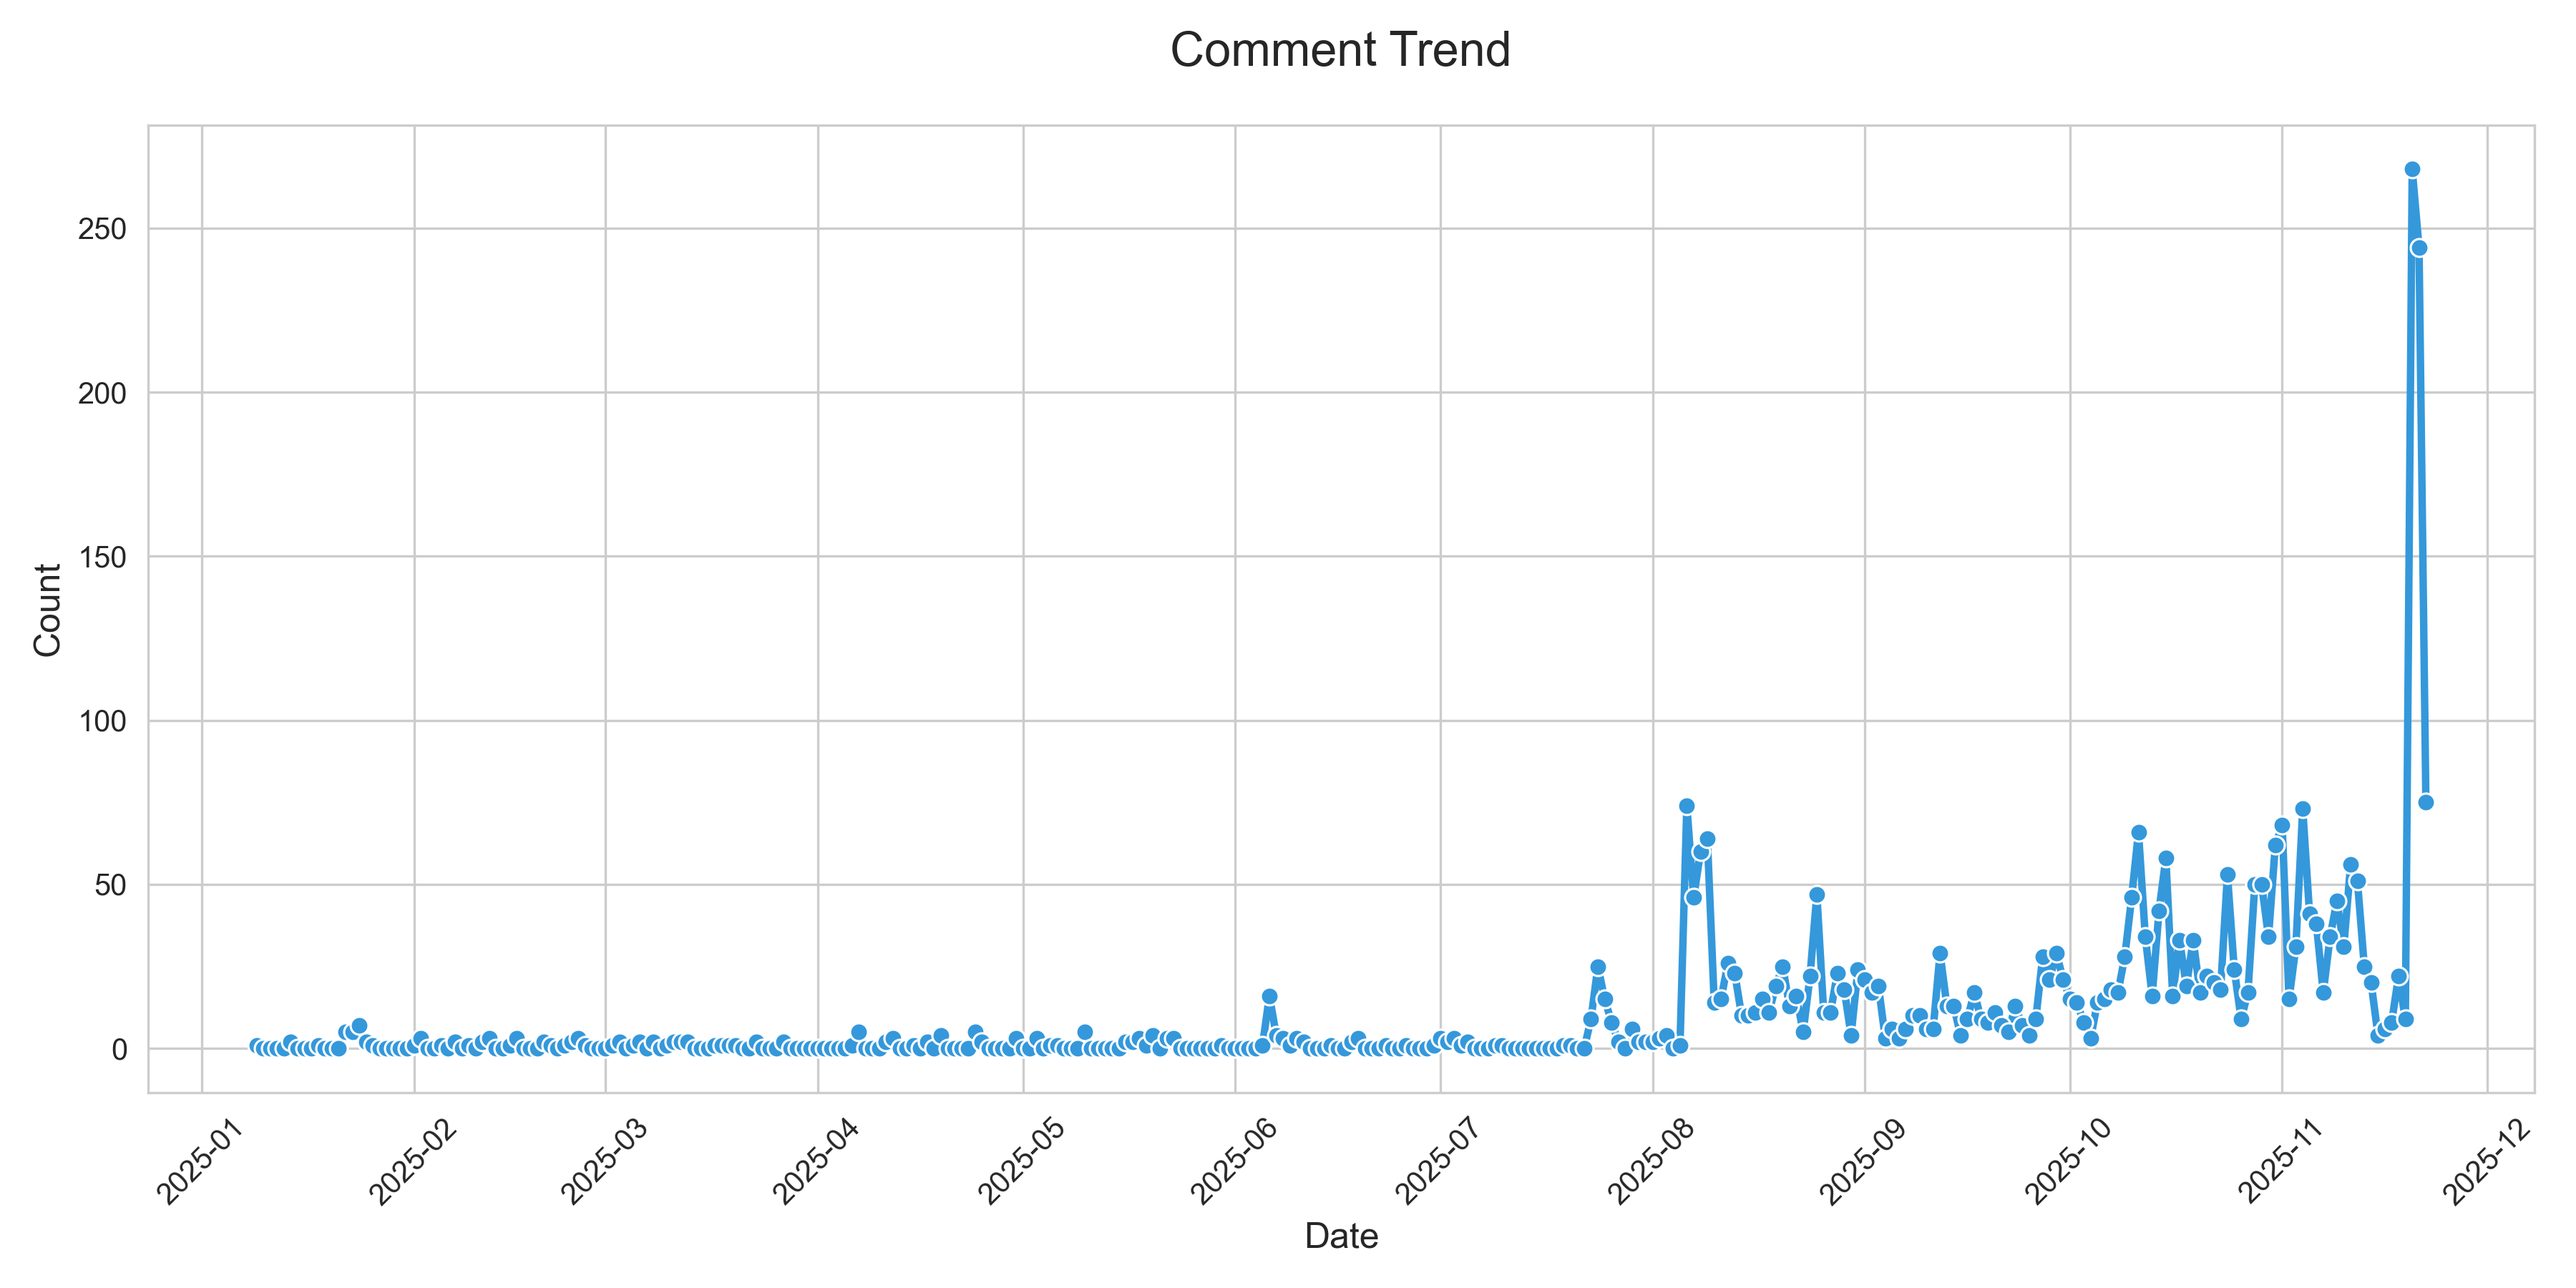
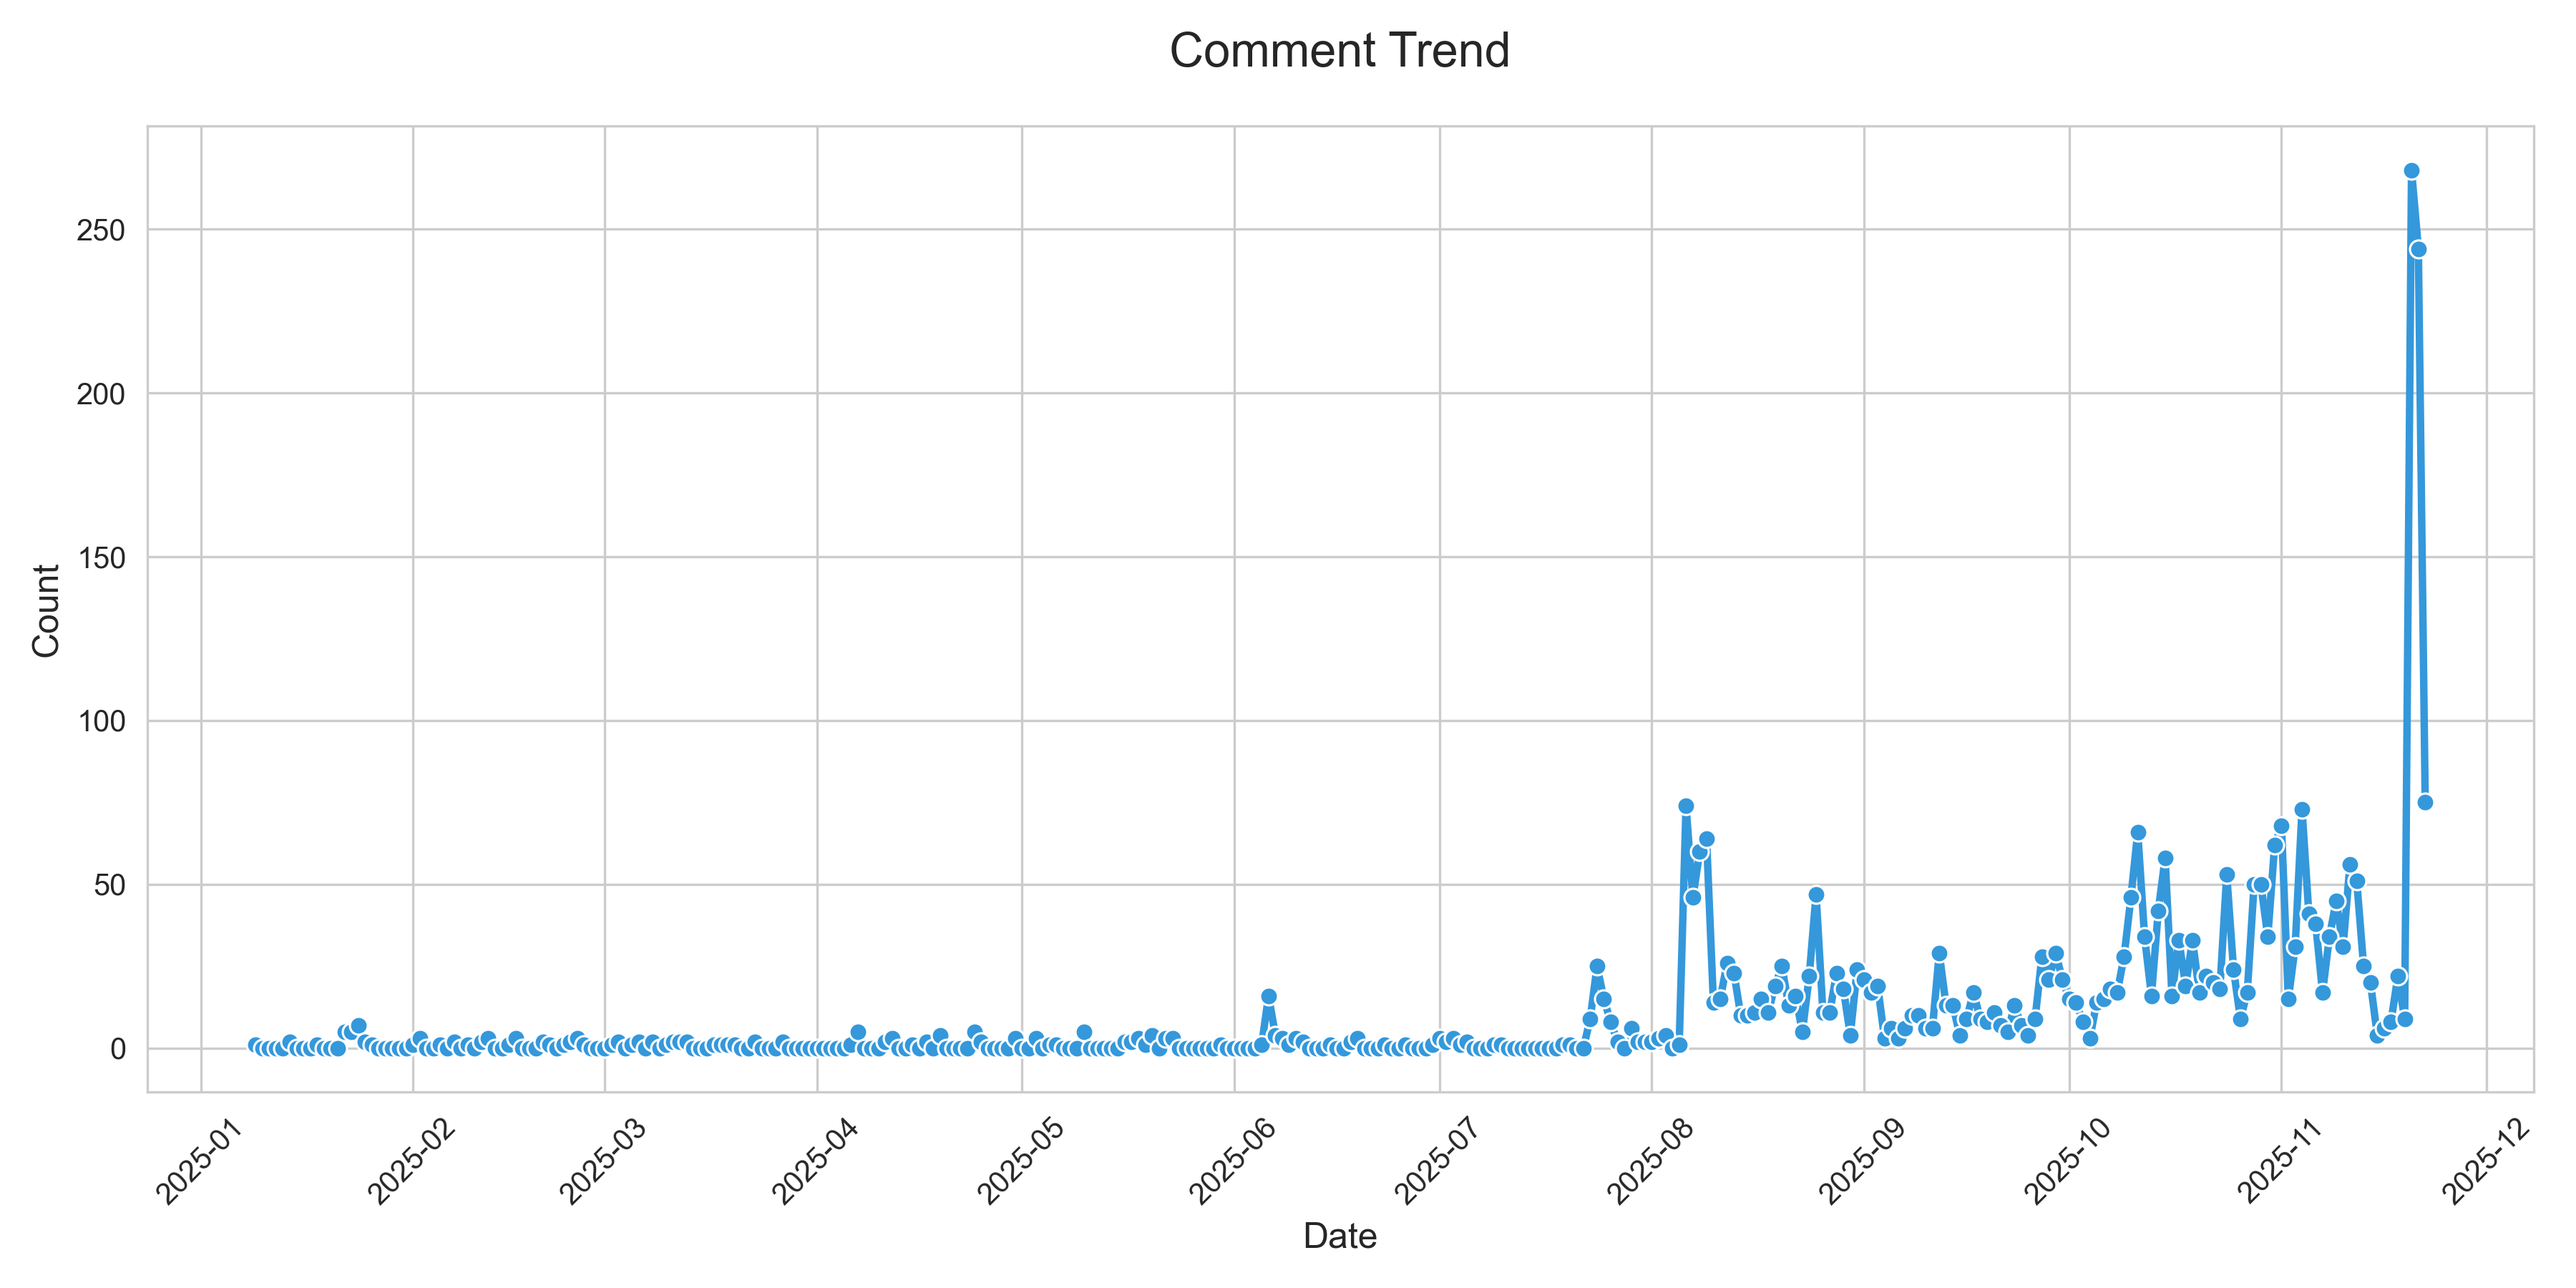
Final Delivery: Integrated 3 charts (Trend, Location, WordCloud), deepened metric card gray, and fixed JSON conflicts

diff --git a/sample_app.py b/sample_app.py
@@ -19,98 +19,48 @@ st.set_page_config(
     initial_sidebar_state="expanded"
 )
 
-# --- 2. 深度 UI 定制 (针对灰色调进行加重) ---
+# --- 2. 样式美化 ---
 st.markdown("""
 <style>
-    /* 解决左边栏间距问题 */
     [data-testid="stSidebarNav"] { padding-top: 0rem; }
     .sidebar-title { margin-top: -30px; font-weight: bold; color: #1f3a93; font-size: 1.2rem; }
-
-    /* 页面大标题居中放大 */
-    .main-title {
-        text-align: center;
-        font-size: 3.5rem;
-        font-weight: 800;
-        color: #1E293B;
-        margin-bottom: 0rem;
-        padding-top: 1rem;
-    }
-    .sub-title {
-        text-align: center;
-        color: #475569; /* 加深副标题灰色 */
-        font-size: 1.2rem;
-        margin-bottom: 2rem;
-    }
-
-    /* 指标卡片美化：加重背景与边框的灰色 */
-    [data-testid="stMetric"] {
-        background-color: #f1f5f9; /* 加深背景：从 #f8fafc 改为 #f1f5f9 */
-        border: 1px solid #cbd5e1; /* 加深边框：从 #e2e8f0 改为 #cbd5e1 */
-        padding: 15px 20px;
-        border-radius: 12px;
-        box-shadow: 0 2px 4px rgba(0,0,0,0.05);
-    }
-
-    /* 指标数值加粗与间距压缩 */
-    [data-testid="stMetricValue"] {
-        font-weight: 800 !important;
-        font-size: 2.2rem !important;
-        line-height: 1.1 !important;
-        color: #0f172a !important;
-    }
-    
-    /* 加深指标标签颜色 */
-    [data-testid="stMetricLabel"] {
-        margin-bottom: -15px !important;
-        font-size: 1rem !important;
-        color: #475569 !important; /* 加深文字：从 #64748b 改为 #475569 */
-    }
+    .main-title { text-align: center; font-size: 3.5rem; font-weight: 800; color: #1E293B; margin-bottom: 0rem; padding-top: 1rem; }
+    .sub-title { text-align: center; color: #475569; font-size: 1.2rem; margin-bottom: 2rem; }
+    [data-testid="stMetric"] { background-color: #f1f5f9; border: 1px solid #cbd5e1; padding: 15px 20px; border-radius: 12px; }
+    [data-testid="stMetricValue"] { font-weight: 800 !important; font-size: 2.2rem !important; line-height: 1.1 !important; color: #0f172a !important; }
+    [data-testid="stMetricLabel"] { margin-bottom: -15px !important; font-size: 1rem !important; color: #475569 !important; }
 </style>
 """, unsafe_allow_html=True)
 
 def main():
-    # 获取 API Key
     api_key = os.getenv("DEEPSEEK_API_KEY")
 
-    # --- 3. 侧边栏：配置与搜索 ---
     with st.sidebar:
-        # 🛡 蓝色盾牌图标与标题
         st.markdown('<p class="sidebar-title">🛡 Data Configuration</p>', unsafe_allow_html=True)
         st.caption("SC6117 Capstone Project")
-        
         if api_key: st.success("✅ API Connected")
         else: st.error("❌ API Missing")
-        
         st.divider()
-        
-        # 数据集选择逻辑
         data_dir = "data"
         output_dir = "output"
         try:
             all_files = [f for f in os.listdir(data_dir) if f.endswith('.csv') and 'comments' in f]
-            search_query = st.text_input("🔍 Search Product", placeholder="输入产品关键词...")
+            search_query = st.text_input("🔍 Search Product", placeholder="例如：大疆...")
             filtered_files = [f for f in all_files if search_query.lower() in f.lower()]
-            
             if filtered_files:
                 selected_file = st.selectbox("Select Dataset", filtered_files)
                 comments_file = selected_file
                 contents_file = selected_file.replace('comments', 'contents')
-            else:
-                st.warning("No data found.")
-                st.stop()
+            else: st.stop()
         except Exception as e:
-            st.error(f"Data directory error: {e}")
-            st.stop()
+            st.error(f"Folder error: {e}"); st.stop()
 
-    # --- 4. 页面中心标题 ---
     st.markdown('<h1 class="main-title">InsightFoundry AI</h1>', unsafe_allow_html=True)
     st.markdown('<p class="sub-title">Evidence-Based Startup Ideation & Market Grounding Engine</p>', unsafe_allow_html=True)
 
-    # --- 5. 数据加载 ---
     loader = DataLoader(data_dir=data_dir)
     contents_df, comments_df = loader.load_data(comments_file, contents_file)
     
-    # 加载分析结果
     report_path = os.path.join(output_dir, "analyzer.json")
     if os.path.exists(report_path):
         with open(report_path, 'r', encoding='utf-8') as f:
@@ -118,38 +68,35 @@ def main():
         key_findings = report_data.get('key_findings', [])
         total_voices = report_data.get('total_comments', len(comments_df))
     else:
-        key_findings = []
-        total_voices = len(comments_df)
+        key_findings = []; total_voices = len(comments_df)
 
-    # --- 6. 标签页设计 ---
-    tab_insight, tab_generator = st.tabs([
-        "📊 Market Insights", 
-        "💡 Founder AI Assistant"
-    ])
+    tab_insight, tab_generator = st.tabs(["📊 Market Insights", "💡 Founder AI Assistant"])
 
-    # === TAB 1: 市场洞察 ===
     with tab_insight:
-        # 指标展示：已加深灰色调
         c1, c2, c3 = st.columns(3)
         with c1: st.metric("Total Voices Analyzed", total_voices)
-        with c2: st.metric("Unique Pain Points", len(key_findings) if key_findings else "Pending")
+        with c2: st.metric("Unique Pain Points", len(key_findings))
         with c3: st.metric("User Engagement", f"{comments_df['like_count'].sum()} 👍")
-        
         st.divider()
 
         col_viz, col_data = st.columns([1.2, 1], gap="large")
 
         with col_viz:
-            st.markdown("### 📈 Visualized Trends")
-            trend_img = os.path.join(output_dir, "daily_comment_trend.png")
-            loc_img = os.path.join(output_dir, "top_locations.png")
+            st.markdown("### 📈 Visualized Market Trends")
+            # 动态加载所有可能的图片
+            files = {
+                "Comment Trend": "daily_comment_trend.png",
+                "User Locations": "top_locations.png",
+                "Word Cloud (吐槽热词)": "wordcloud.png" # 新增词云展示
+            }
             
-            if os.path.exists(trend_img):
-                st.image(trend_img, use_container_width=True)
-            if os.path.exists(loc_img):
-                st.image(loc_img, use_container_width=True)
-            else:
-                st.info("Market analysis visuals not found in output directory.")
+            for label, filename in files.items():
+                img_path = os.path.join(output_dir, filename)
+                if os.path.exists(img_path):
+                    st.write(f"**{label}**")
+                    st.image(img_path, use_container_width=True)
+                else:
+                    st.caption(f"ℹ {label} not yet generated.")
 
         with col_data:
             st.markdown("### 🔍 Key Findings (AI Extraction)")
@@ -157,39 +104,29 @@ def main():
                 for finding in key_findings:
                     with st.expander(f"🔴 {finding['aspect']} (Severity: {finding['sentiment_score']})"):
                         st.write(f"**Summary:** {finding['summary']}")
-                        st.markdown("**Evidence (Top Comments):**")
+                        st.markdown("**Evidence:**")
                         for comment in finding.get('top_representative_comments', []):
                             st.caption(f"💬 \"{comment}\"")
             else:
-                st.warning("No analysis report found. Ensure analyzer.py has run.")
+                st.warning("No findings in analyzer.json.")
 
-    # === TAB 2: AI 生成器 ===
     with tab_generator:
         st.markdown("### 🤖 GenAI Founder Strategic Assistant")
-        st.write("Generating a high-impact startup concept grounded in the validated facts.")
-        
         gen_col_1, gen_col_2 = st.columns([1, 2], gap="medium")
-        
         with gen_col_1:
-            st.markdown("#### Action Center")
             if st.button("🚀 Run AI Ideation", type="primary", use_container_width=True):
-                if not api_key:
-                    st.error("Please configure API Key in .env first.")
+                if not api_key: st.error("API Key missing.")
                 else:
-                    with st.spinner("AI is analyzing market gaps..."):
+                    with st.spinner("AI is analyzing gaps..."):
                         gen = Generator()
-                        # 注意：此处优先使用 analyzer 提取的高质量 key_findings
                         result = gen.generate_idea(key_findings if key_findings else [])
                         st.session_state['final_pitch'] = result
-
         with gen_col_2:
             if 'final_pitch' in st.session_state:
-                st.success("Targeted Business Concept Generated")
                 st.markdown(st.session_state['final_pitch'])
-                st.divider()
                 st.download_button("📥 Download Pitch (.md)", st.session_state['final_pitch'], file_name="startup_plan.md")
             else:
-                st.info("Click the button to generate your strategy.")
+                st.info("Click the button to generate strategy.")
 
 if __name__ == "__main__":
     main()
